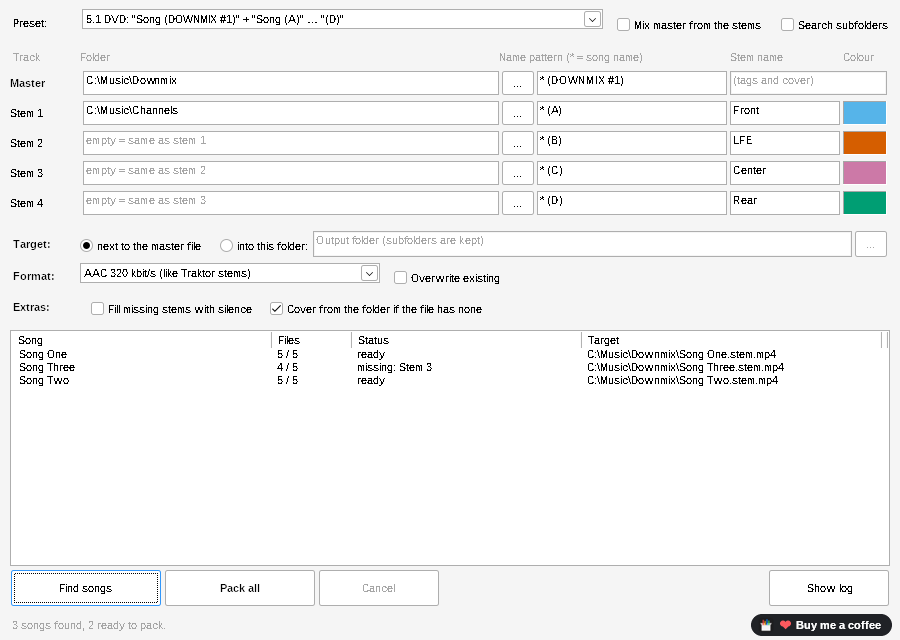
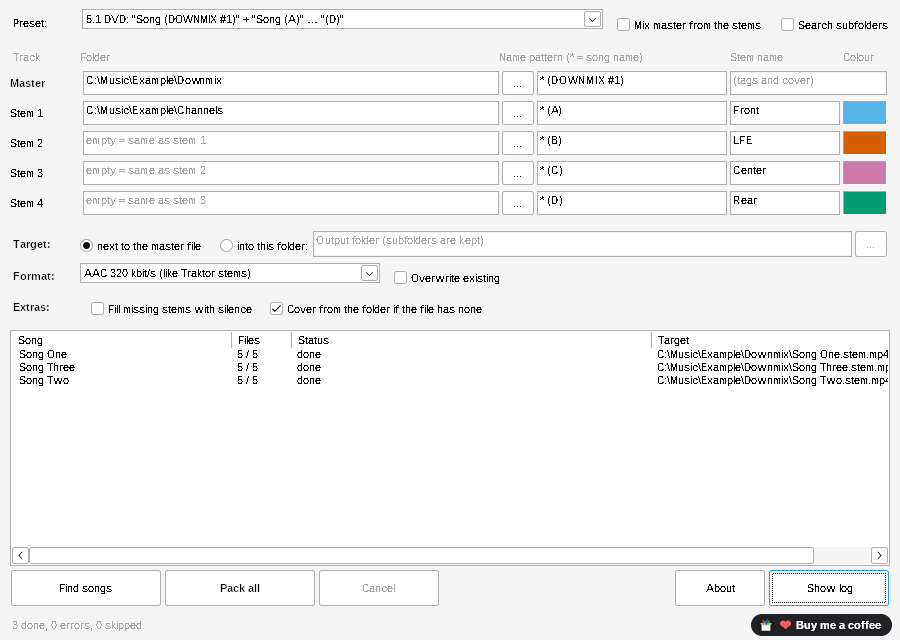
Projektseite: neue Screenshots DE/EN (Beispielordner, ohne Testpfade)

diff --git a/site/de/index.html b/site/de/index.html
@@ -99,7 +99,7 @@
     </ul>
     <figure class="shot hero-shot">
       <div class="bar"><img src="../img/icon-32.png" alt=""><span>Elospeed StemPacker 0.2</span><i class="min"></i><i class="max"></i><i class="cls"></i></div>
-      <img src="../img/stempacker-de.png" width="900" height="488" alt="StemPacker-Fenster: Vorlage 5.1-DVD, Ordner und Namensmuster für Master und Stem 1 bis 4 mit den Stem-Namen Front, LFE, Center, Rear und ihren Farben, darunter die Songliste">
+      <img src="../img/stempacker-de.png" width="900" height="640" alt="StemPacker-Fenster: Vorlage 5.1-DVD, Ordner und Namensmuster für Master und Stem 1 bis 4 mit den Stem-Namen Front, LFE, Center, Rear und ihren Farben, darunter die Songliste">
     </figure>
   </div>
 </section>
